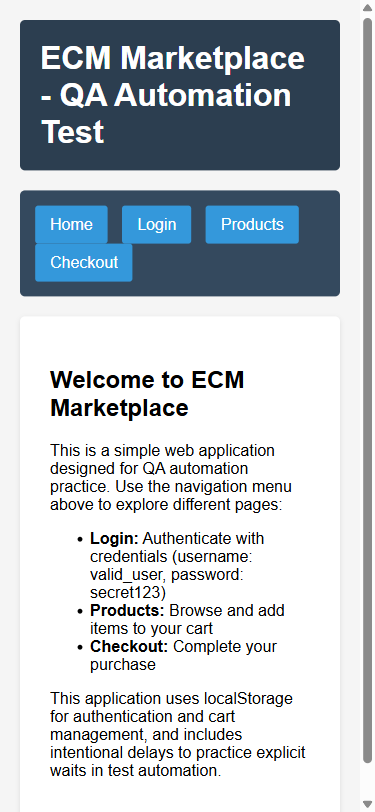
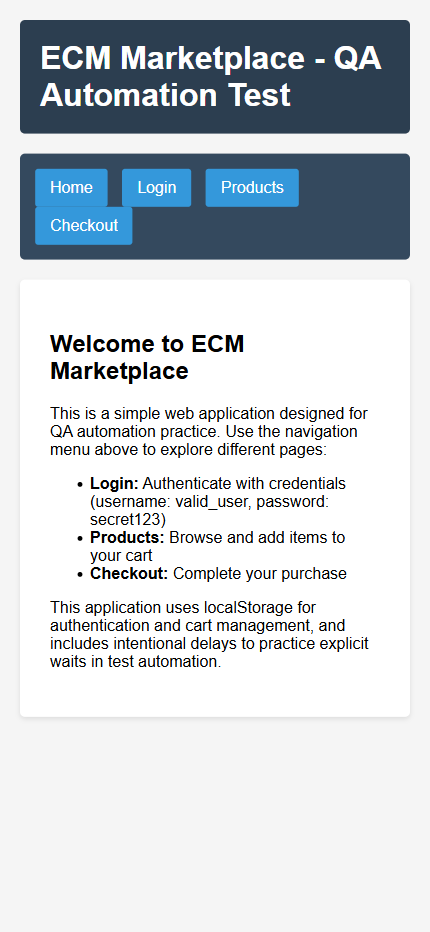
arrei de tamanhos  diferentes de responsivos

diff --git a/playwright-report/index.html b/playwright-report/index.html
@@ -87,4 +87,4 @@ Error generating stack: `+l.message+`
     <div id='root'></div>
   </body>
 </html>
[2 lines of base64/hex data omitted]

diff --git a/tests/FrontEnd/home.spec.ts b/tests/FrontEnd/home.spec.ts
@@ -13,10 +13,14 @@ test.beforeEach(async ({ page }) => {
   
 test.describe.parallel('Login', () => {
   test('Comparar screenshot responsiva', async ({ page }) => {
-  await page.setViewportSize({ width: 375, height: 812 });
-  await page.goto('http://localhost:8080/');
-  await expect(page).toHaveURL('http://localhost:8080/');
-  await page.screenshot({path: "Evidencias/Home/home-mobile.png.png"});
+
+    let tamanhos = {"width": [375,414,390,430], "height": [667,896,844,932]};
+    for(const tamanho in tamanhos.width){
+      await page.setViewportSize({ width: tamanhos.width[tamanho], height: tamanhos.height[tamanho]});
+      await page.goto('http://localhost:8080/');
+      await expect(page).toHaveURL('http://localhost:8080/');
+      await page.screenshot({path: "Evidencias/Home/home-mobile.png.png"});
+  }
   console.log("É responsivo! \n");
 });
 

diff --git a/playwright.config.ts b/playwright.config.ts
@@ -53,7 +53,7 @@ export default defineConfig({
     
     {
       name: 'Mobile',
-      use: devices['Pixel 5'],
+      use: devices[''],
     },
 
   ],
